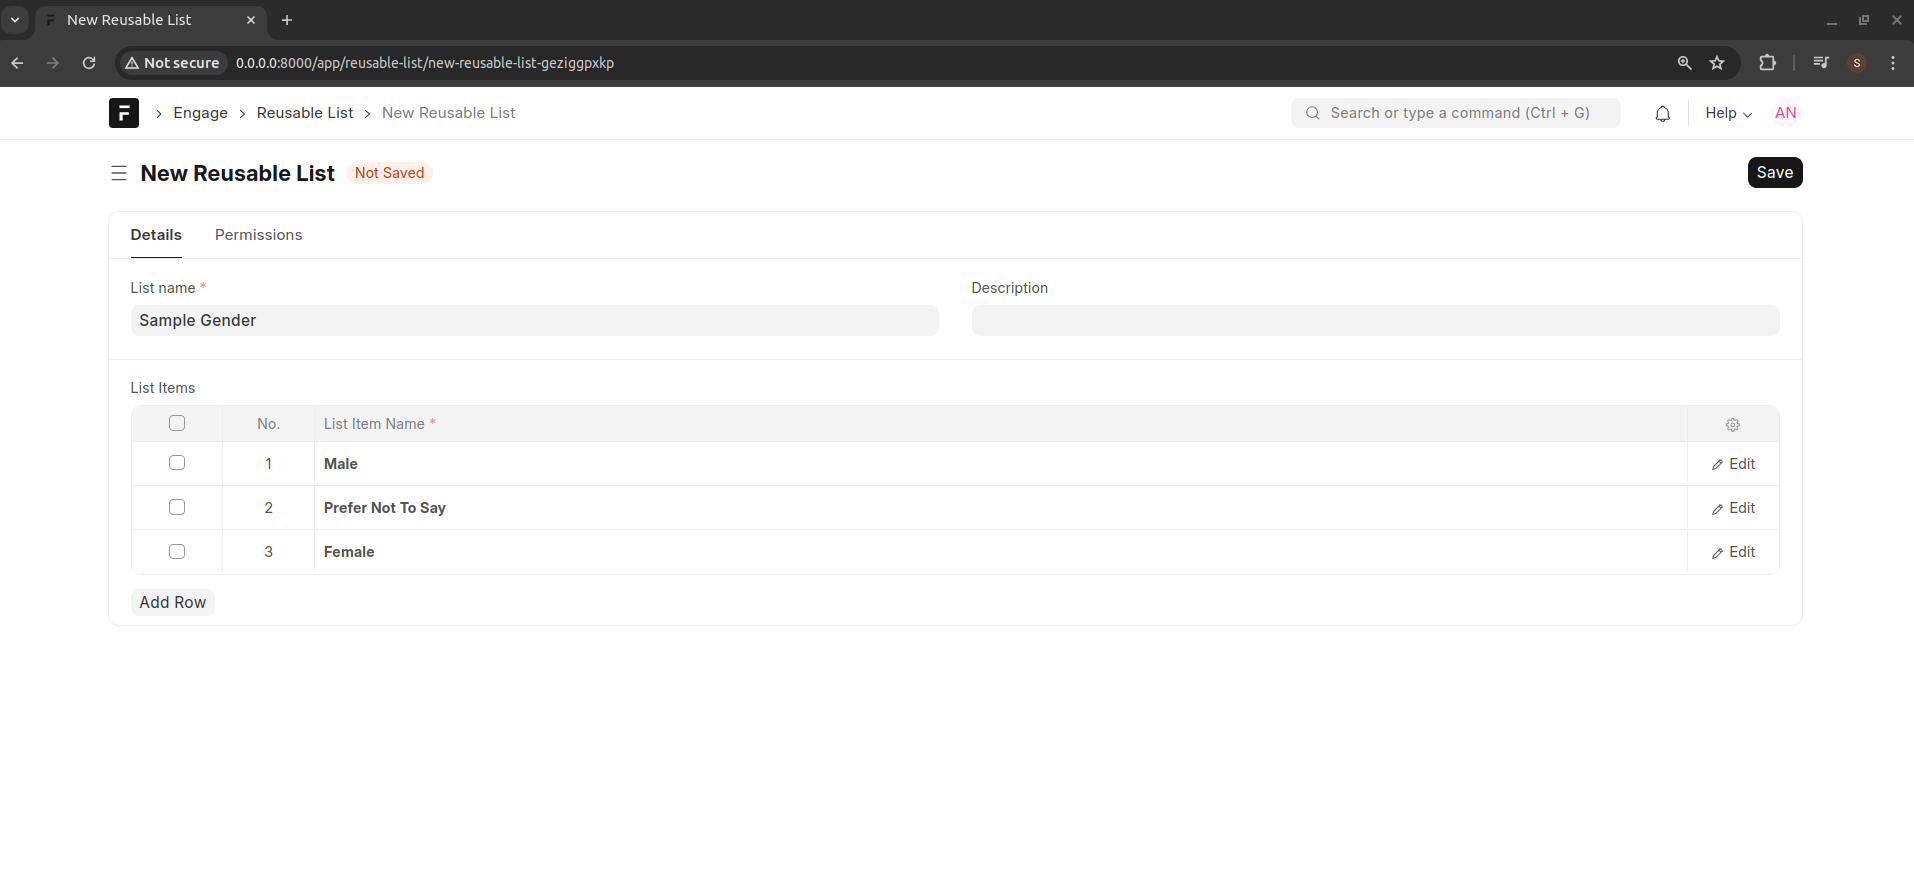
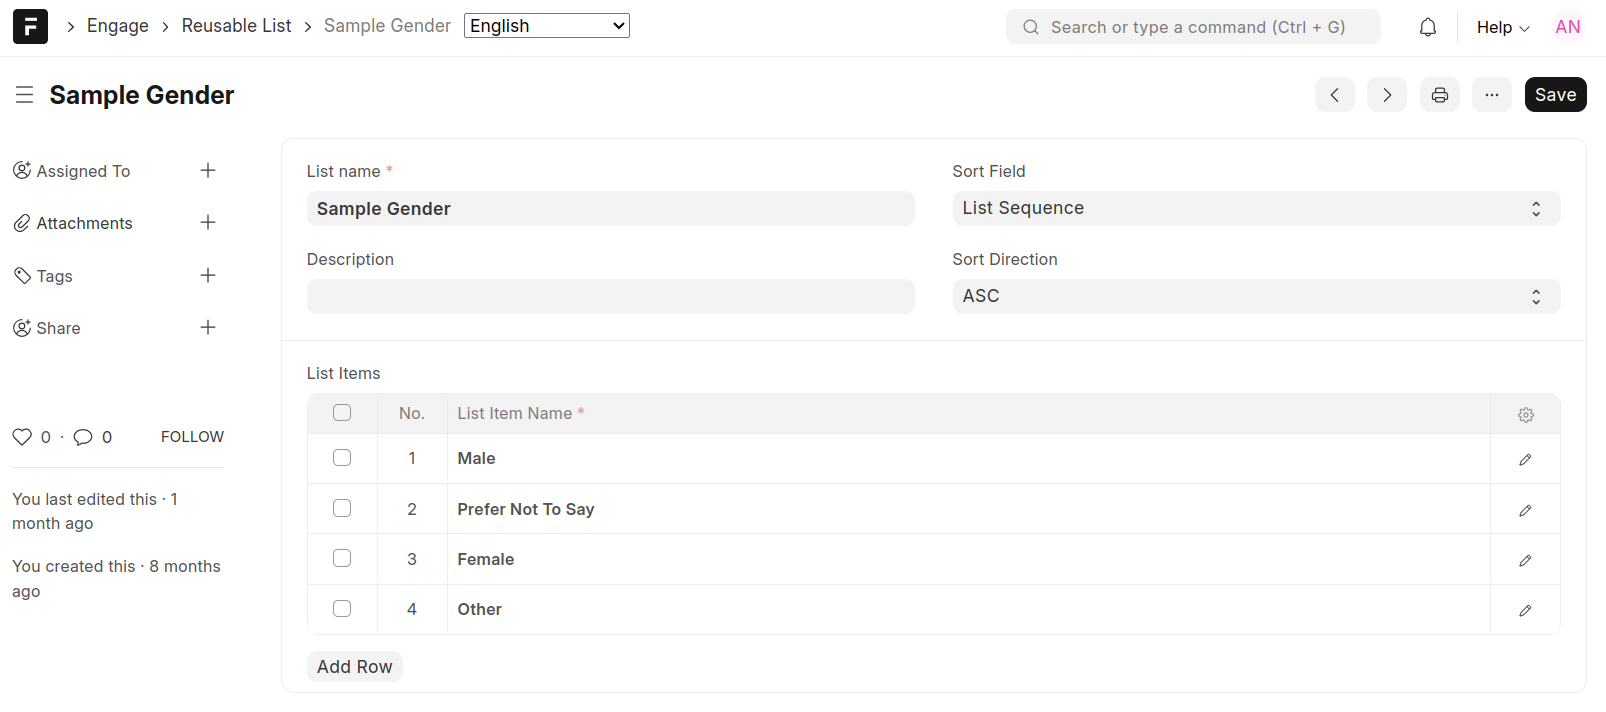
docs: Update documentation for the backend

diff --git a/docs/engagement/engagement.rst b/docs/engagement/engagement.rst
@@ -2,6 +2,25 @@
 Engagement
 ==========
 
-Introduction to Engagement
+An engagement is a means of deploying an engagement tool. Through an engagement, we can deploy an engagement tool for a period of time. If a tool does not have an associated engagement, it will not be possible to collect data using the tool
 
- 
+.. image:: ../_static/images/engagement-new.png
+    :align: center
+    :alt: New Engagement
+
+- **Engagement Name**. This is unique name given to an engagement, e.g Public Participation For Budget 2025/2026
+- **Status**. The status of the engagement. Available options are Open and Closed. An engagement is open as long as the current date is earlier than the closing date
+- **Is Published**. Publishing an engagement activates data collection against the associated engagement tool. Only published engagements will be visible in the frontend application
+- **Closing Date**. This is the date until which data can be collected against the associated engagement tool.
+- **Description**. The text provided here will be shown as introduction to a user who is capturing data using the associated engagement tool. Therefore make this as clear and concise as possible
+- **Cover Image**. If an image is attached here, the same will be used as a thumbnail when displaying the list of engagements in the frontend application
+- **Engagement Types**. This describes the type of engagement:
+  
+    - **Has an engagement form**. This type of engagement is one that uses a standard form to capture feedback
+    - **Include Formal Submissions**. This type of engagement incorporates situations where documents are likely to be submitted. An example use case is when institutions and citizens are giving views on a proposed policy or budget proposals
+    - **Include Guestbook**. This is an engagement that allows anonymous responses against a specific question or topic
+    - **Include Q&A**. This type of engagement is one where questions can be asked and answers provided. This is similar to comment sections in social media platforms
+    - **Include Poll**. This caters for situations where users are provided with an option to vote on one or more choices
+    - **Include ideas**. This is a free form situation that allows users to submit random ideas
+    - **Include discussion**. This is similar to ideas only that it allows users to give their responses against a specific topic
+    - **Include map**. In this type of engagement, the users have an option to submit spatial data

diff --git a/docs/form-design/reusable-list.rst b/docs/form-design/reusable-list.rst
@@ -2,7 +2,7 @@
 Reusable Lists
 ==============
 
-There is need to provide an interface where standard lists are managed from the backend. This will eliminate duplication of standard lists and thus ensure that forms make use of uniform lists. For example, Gender has standard options and there is need to ensure that all forms making use of the Gender reference the same options.
+There is need to provide an interface where standard institutional lists are managed from the backend. This will eliminate duplication of standard lists and thus ensure that forms make use of uniform lists. For example, Gender has standard options and there is need to ensure that all forms making use of the Gender reference the same options.
 
 There is an option to assign different permissions to different user roles. For example, Climate Change Department can be in-charge of maintaining list of hazards, while the planning department can be in-charge of maintaining the list of projects.
 
@@ -24,6 +24,11 @@ Create a Reusable List
 
 - You can add/edit/delete list items at any time
 - Note that you will receive an error message when you attempt to delete a list item that has already been used by another form
+
+.. note:: 
+
+    You can determine the order in which list items will be ordered when the list is in use within an engagement tool. This can be done by specifying the field to sort by and the direction. The directions are ASC (ascending) and DESC (descending)
+
 
 Import Reusable List
 --------------------

diff --git a/docs/README.rst b/docs/README.rst
@@ -11,7 +11,7 @@ Architecture
 
 - The platform is composed of a **Frontend** and the **Backend**
 - The backend provides functionalities to users to enable them design participatory processes. It is also acts a repository for data and reports
-- The frontend is an application that is installable on Android devices. The frontend consumes configurations defined on the backend and renders participatory instruments on user devices thus allowing data capture using devices
+- The frontend is an application that is installable on mobile devices. The frontend consumes configurations defined on the backend and renders participatory instruments on user devices thus allowing data capture using devices. This is an application that is installable on mobile devices and provides interaction with the backend. The frontend is powered by the backend meaning the backend needs to be up and running for the frontend to function properly.
 
 Backend
 -------
@@ -42,5 +42,4 @@ This tool contains 3 main modules
 Frontend
 --------
 
-- This is the tool that end users interact with for data capture for the engagement processes
-- The frontend is fully reliant on the backend for optimal operation
+This is the tool that end users interact with for data capture for the engagement processes. The frontend is fully reliant on the backend for optimal operation. The frontend is able to operate in offline mode meaning data can be collected in situations of poor or no network connectivity.

diff --git a/docs/setup/engage-settings.rst b/docs/setup/engage-settings.rst
@@ -1,0 +1,32 @@
+===============
+Engage Settings
+===============
+
+This form supports one-time setup of values used by both the backend and the frontend. 
+
+- Institutional details
+
+.. image:: ../_static/images/engage-settings-1.png
+    :align: center
+    :alt: Engage Settings 1
+
+
+- Participatory tool details
+
+.. image:: ../_static/images/engage-settings-2.png
+    :align: center
+    :alt: Engage Settings 2
+
+
+- Website footer details
+
+.. image:: ../_static/images/engage-settings-3.png
+    :align: center
+    :alt: Engage Settings 3
+
+
+- Data Consent. This interface allows creation of terms and conditions that the user has to accept when consenting for usage of their data
+
+.. image:: ../_static/images/engage-settings-3.png
+    :align: center
+    :alt: Engage Settings 4

diff --git a/docs/form-design/engagement-tool-group.rst b/docs/form-design/engagement-tool-group.rst
@@ -1,0 +1,15 @@
+=====================
+Engagement Tool Group
+=====================
+
+This feature provides a logical means of grouping engagement tools. For instance, different departments may want to group their tools under a single grouping for purposes of :doc:`permissions assignment <../setup/form-permissions>` and ease of access.
+
+.. image:: ../_static/images/engagement-tool-group-new.png
+    :align: center
+    :alt: Create Engagement Tool Group
+
+- Engagement tools will also be filtered by available groups thus providing a cleaner way to narrow down to tools grouped under specific groups
+
+.. image:: ../_static/images/engagement-tool-group-filter.png
+    :align: center
+    :alt: Create Engagement Tool Filter

diff --git a/docs/form-design/form-design.rst b/docs/form-design/form-design.rst
@@ -53,12 +53,12 @@ or
     { "population": [">", 2000000]" }
 
 
-2. To select a list of attendees with Farming and Livestock Keeping as their livelihoods
+3. To select a list of attendees with Farming and Livestock Keeping as their livelihoods
 
 .. code:: JSON
 
     { "livelihood": ["in", ["Farming", "Livestock Keeping"]]" }
-    
+
 
 Please note that you will need to replace the field names with the appropriate names as specified when designing the linked form.
 

diff --git a/docs/form-design/introduction.rst b/docs/form-design/introduction.rst
@@ -1,0 +1,10 @@
+============
+Introduction
+============
+
+This module has four main features:
+
+- **Create Engagement Tool** - This is shortcut to create a new engagement tool
+- **Engagement Tools** - This is a shortcut to list all existings engagement tools
+- **New Engagement** - This is a shortcut to spin up a new engagement. See :doc:`Engagement </engagement/engagement>`
+- **Engagements** - This is a shortcut to a list of existing engagements

diff --git a/docs/setup/assign-form-permissions.rst b/docs/setup/assign-form-permissions.rst
@@ -1,0 +1,9 @@
+=======================
+Assign Form permissions
+=======================
+
+This feature enables assignment of permissions to :doc:`engagement profiles <engagement-profile>`.
+
+.. image:: ../_static/images/engagement-profile-user-assignment-new.png
+    :align: center
+    :alt: Engagement profile user assignment

diff --git a/docs/frontend/index.rst b/docs/frontend/index.rst
@@ -1,0 +1,10 @@
+The Frontend
+============
+
+This is the component of the participatory tool platform  that is installable on user devices to facilicate interaction with the backend. A user can access backend content.
+
+The frontend comprises of the following modules:
+
+- Engagement
+- Analytics
+- Reporting and dashboards

diff --git a/docs/setup/engagement-profile.rst b/docs/setup/engagement-profile.rst
@@ -1,0 +1,10 @@
+==================
+Engagement Profile
+==================
+
+This feature allows grouping of different engagement tools for ease of assignment of :doc:`permissions <assign-form-permissions>`.
+
+.. image:: ../_static/images/engagement-profile-new.png
+    :align: center
+    :alt: New engagement profile
+

diff --git a/docs/index.rst b/docs/index.rst
@@ -17,6 +17,8 @@ Welcome to participatory-tool-docs's documentation!
    engagement/index
    technical/index
    reports/index
+   frontend/index
+   setup/index
      
 Indices and tables
 ==================

diff --git a/docs/setup/index.rst b/docs/setup/index.rst
@@ -1,0 +1,14 @@
+=====
+Setup
+=====
+
+Index page for setup Module
+
+.. toctree::
+   :maxdepth: 2
+   :caption: Contents:
+
+   engagement-profile
+   assign-form-permissions
+   engage-settings
+   
